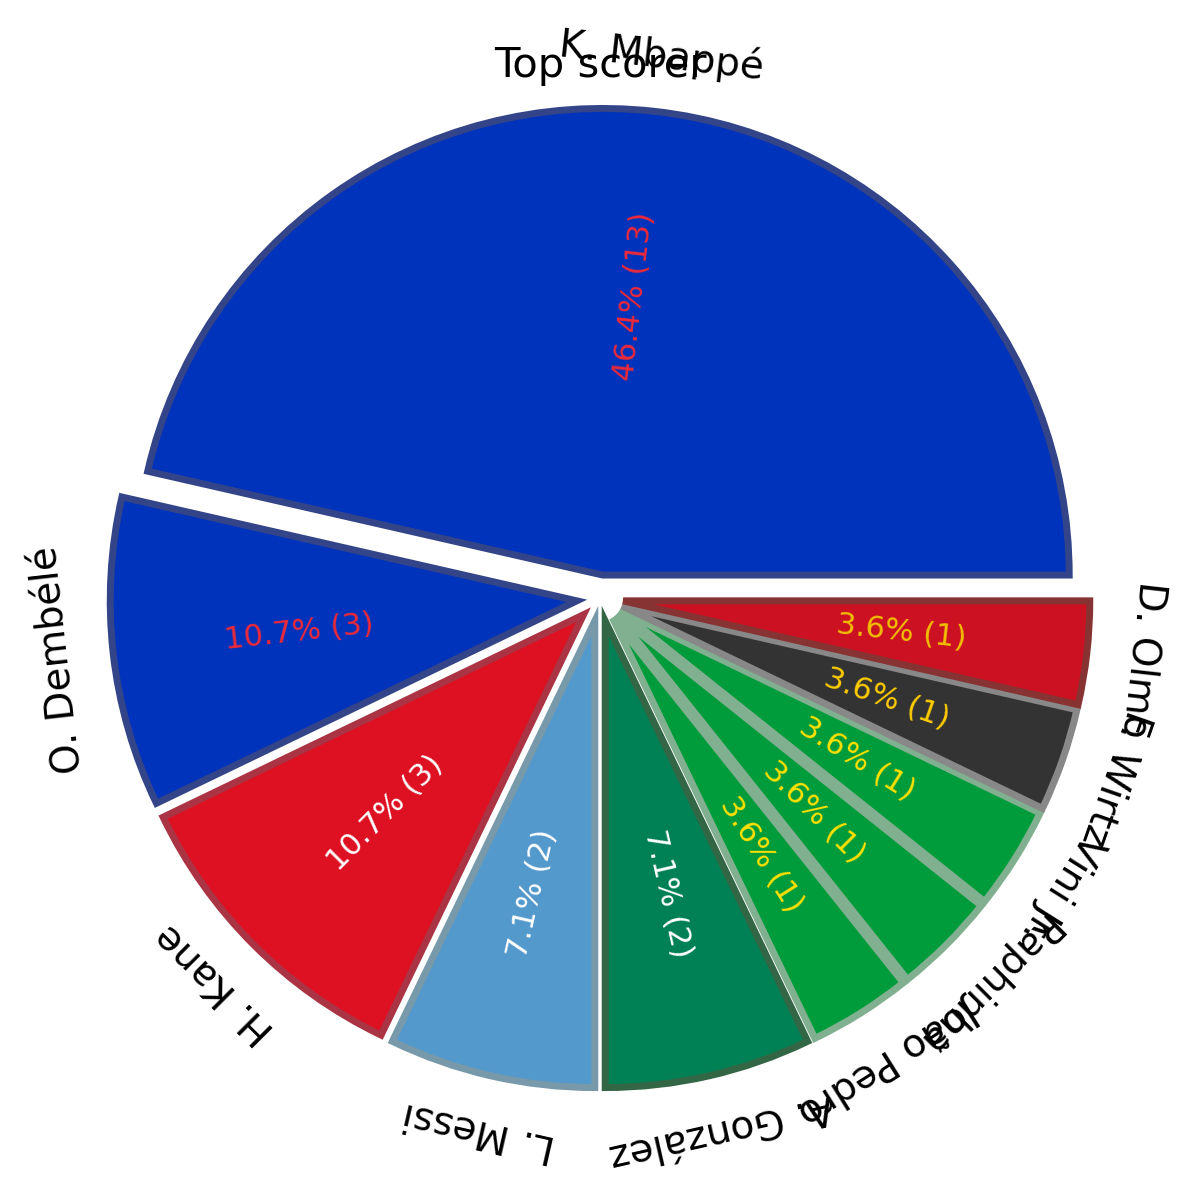
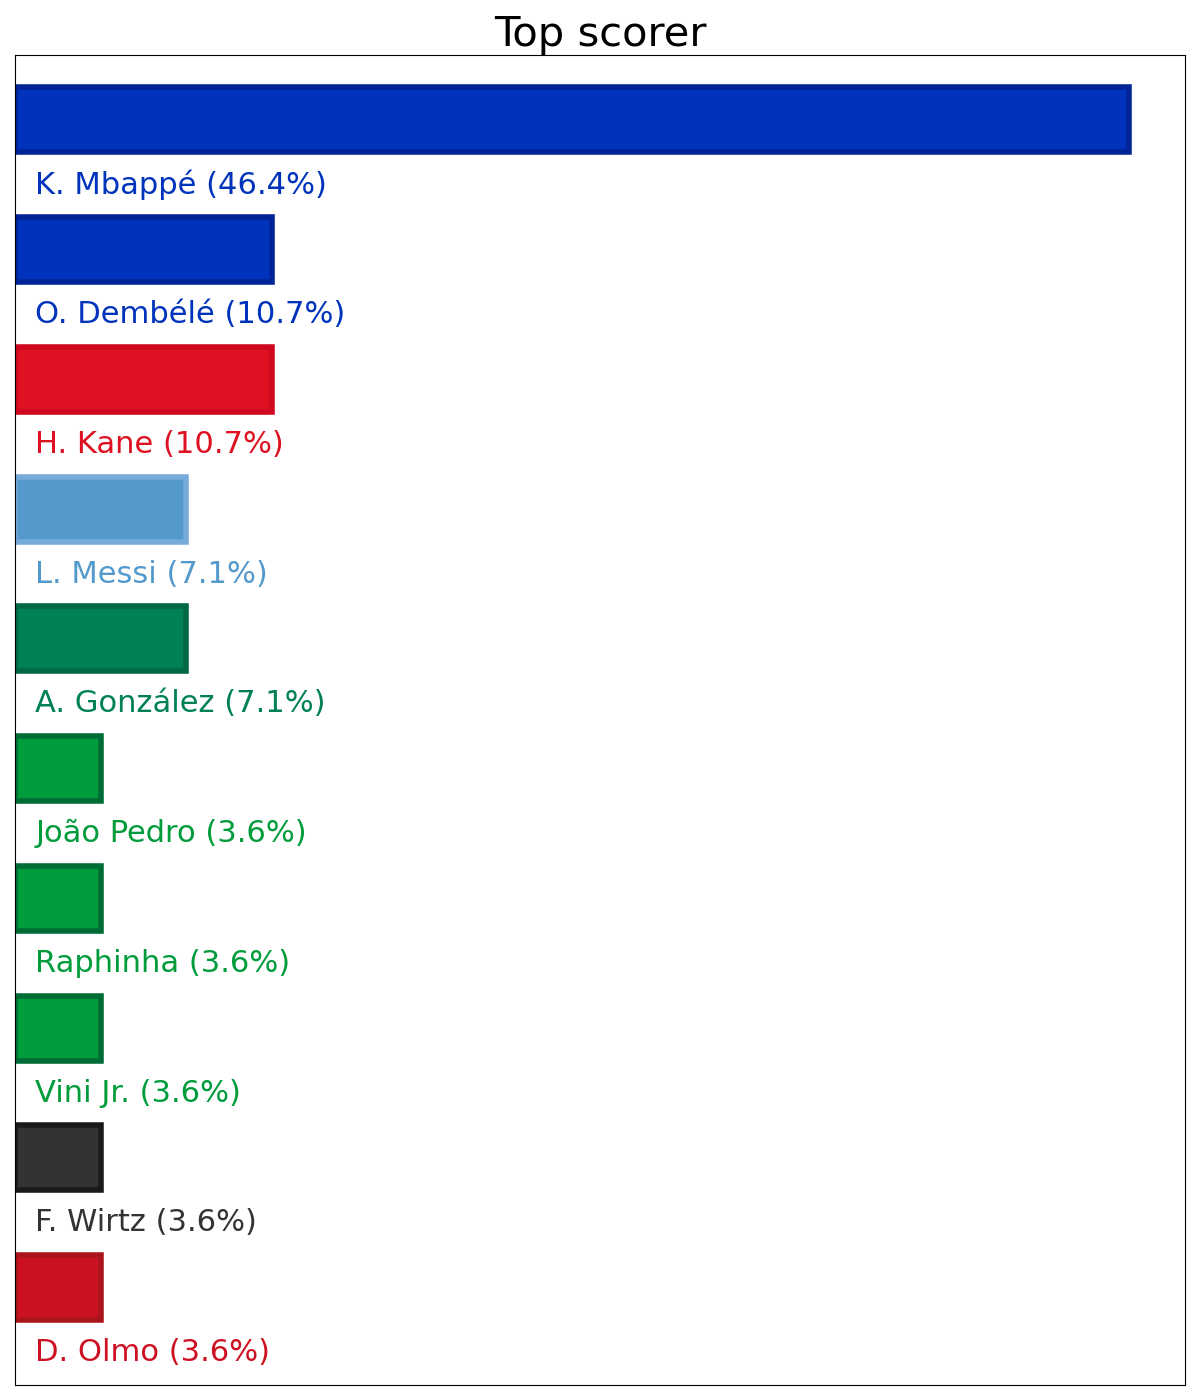
graficos

diff --git a/flutter_bootstrap.js b/flutter_bootstrap.js
@@ -37,6 +37,6 @@ _flutter.buildConfig = {"engineRevision":"425cfb54d01a9472b3e81d9e76fd63a4a44cfb
 
 _flutter.loader.load({
   serviceWorkerSettings: {
-    serviceWorkerVersion: "2513194963" /* Flutter's service worker is deprecated and will be removed in a future Flutter release. */
+    serviceWorkerVersion: "3525892922" /* Flutter's service worker is deprecated and will be removed in a future Flutter release. */
   }
 });
